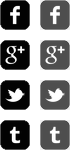
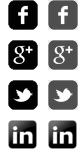
site ad removed + links social media

diff --git a/html/index.html b/html/index.html
@@ -46,7 +46,7 @@
 	<div id="footer">
 		<div class="clearfix">
 			<div id="connect">
-				<a href="https://www.facebook.com/brechtw" target="_blank" class="facebook"></a><a href="https://twitter.com/BrechtWuyts" target="_blank" class="twitter"></a><a href="http://www.freewebsitetemplates.com/misc/contact/" target="_blank" class="tumbler"></a>
+				<a href="https://www.facebook.com/brechtw" target="_blank" class="facebook"></a><a href="https://twitter.com/BrechtWuyts" target="_blank" class="twitter"></a><a href="http://www.freewebsitetemplates.com/misc/contact/" target="_blank" class="linkedin"></a>
 			</div>
 			<p>
 				© 2023 Zerotype. All Rights Reserved.

diff --git a/html/css/style.css b/html/css/style.css
@@ -386,7 +386,7 @@ p a {
 #connect a.twitter {
 	background-position: 0 -80px;
 }
-#connect a.tumbler {
+#connect a.linkedin {
 	background-position: 0 -120px;
 }
 #connect a.facebook:hover {
@@ -398,6 +398,6 @@ p a {
 #connect a.twitter:hover {
 	background-position: -40px -80px;
 }
-#connect a.tumbler:hover {
+#connect a.linkedin:hover {
 	background-position: -40px -120px;
 }
